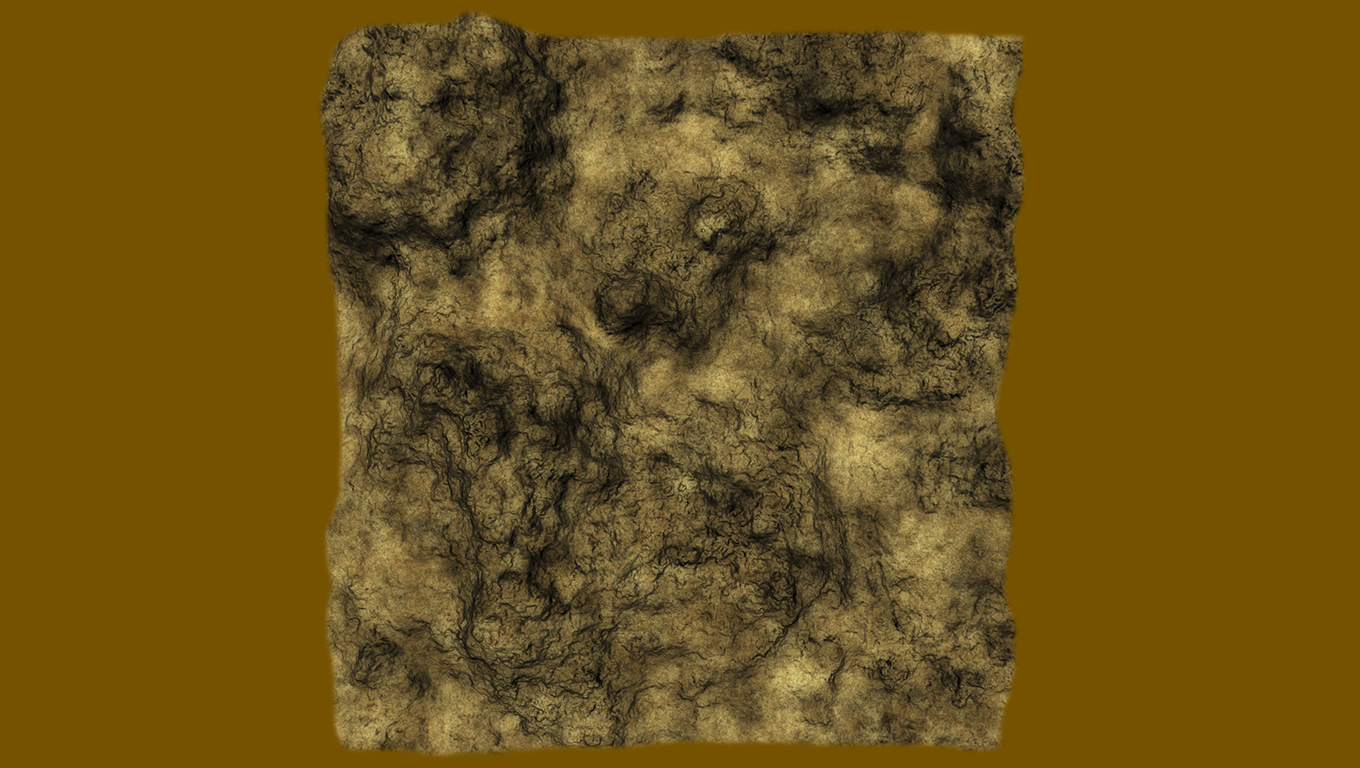
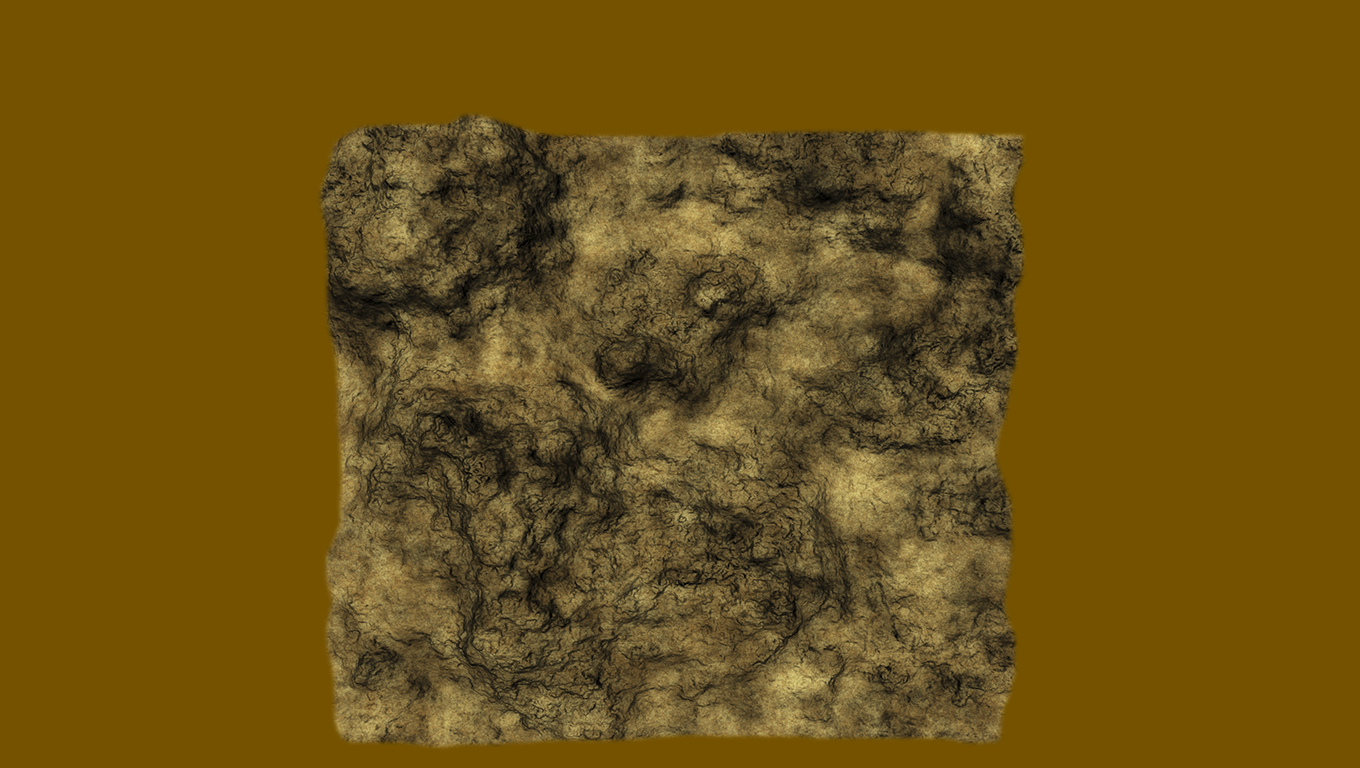
interfaz grafica

Changed region(s): [[0.2162, 0.0, 0.7721, 1.0]]

diff --git a/src/main/resources/Css/estilo.css b/src/main/resources/Css/estilo.css
@@ -1,0 +1,31 @@
+.root{
+	-fx-background-image: url("../Imagenes/fondotablero.png");
+	-fx-background-repeat: stretch;
+	-fx-background-size: 1366 768;
+	-fx-background-position: center center;
+
+}
+
+#head{
+	-fx-spacing:10;
+	-fx-alignment:center;	
+}
+
+#name{
+	-fx-font-size:20px;
+}
+
+#player{
+	
+	-fx-background-color:#DBDBDF;
+	-fx-background-radius:8;
+	-fx-min-width:300px;
+	-fx-position-shape:true;
+}
+#vbox{
+	-fx-background-image: url("../Imagenes/fondoDeSalida.png");
+	-fx-background-repeat: stretch;
+	-fx-background-size: 600 325;
+	-fx-background-position: center center;
+	-fx-effect: dropshadow(three-pass-box, black, 30, 0.5, 0, 0);
+}

diff --git a/src/main/java/Algoritmos3/Aplicacion/Vista/InitialPhaseView.java b/src/main/java/Algoritmos3/Aplicacion/Vista/InitialPhaseView.java
@@ -1,0 +1,144 @@
+package Algoritmos3.Aplicacion.Vista;
+
+import javafx.geometry.Pos;
+import javafx.scene.input.MouseEvent;
+import javafx.event.ActionEvent;
+import javafx.event.EventHandler;
+import javafx.scene.Scene;
+import javafx.scene.control.Button;
+import javafx.scene.control.Label;
+import javafx.scene.control.TextField;
+import javafx.scene.image.Image;
+import javafx.scene.image.ImageView;
+import javafx.scene.layout.HBox;
+import javafx.scene.layout.VBox;
+import javafx.stage.Popup;
+import javafx.stage.Stage;
+
+public class InitialPhaseView {
+	private Stage stage;
+	private PieceView pieceView;
+	private MapView mapView;
+	private PlayerView player1;
+	private PlayerView player2;
+	private PlayerView turn;
+
+	public InitialPhaseView(String jugador1,String jugador2, Stage stage) {
+		this.stage = stage;
+		this.pieceView = new PieceView();
+		this.mapView = new MapView();//tamanio del tablero
+		player1 =  new PlayerView(jugador1);
+		player2 =  new PlayerView(jugador2);
+		initialPhase();
+	}
+
+	public void initialPhase(){//player1 and player2
+		this.stage.setTitle("Phase Initial");
+		VBox vbox = new VBox();
+		HBox hbox = new HBox();
+		vbox.setAlignment(Pos.CENTER);
+		vbox.getChildren().add(head());
+
+		player1.viewPlayer(hbox);
+		hbox.getChildren().add(mapView);
+		player2.viewPlayer(hbox);
+
+		vbox.getChildren().add(hbox);
+		hbox.setAlignment(Pos.CENTER);
+		Scene theScene = new Scene(vbox);
+		theScene.getStylesheets().add("Css/estilo.css");
+		this.stage.setScene(theScene);
+		this.stage.setMaximized(true);
+		this.stage.show();
+		this.stage.setFullScreen(true);
+	}
+
+	public HBox head() {
+		HBox head = new HBox();
+		head.setId("head");
+
+		Image imgSoldado = new Image("Imagenes/soldado.jpg",80,80,false,false);
+		ImageView soldado = new ImageView(imgSoldado);
+		menuPiece(soldado,"soldado",head);
+
+		Image imgJinete = new Image("Imagenes/jinete.png",80,80,false,false);
+		ImageView jinete = new ImageView(imgJinete);
+		menuPiece(jinete,"jinete",head);
+
+		Image imgCatapulta = new Image("Imagenes/catapulta.jpg",80,80,false,false);
+		ImageView catapulta = new ImageView(imgCatapulta);
+		menuPiece(catapulta,"catapulta",head);
+
+		Image imgCurandero = new Image("Imagenes/curandero.jpg",80,80,false,false);
+		ImageView curandero= new ImageView(imgCurandero);
+		menuPiece(curandero,"curandero",head);
+
+		head.getChildren().addAll(soldado,jinete,catapulta,curandero);
+		turnOf(head,player1);
+		return head;
+	}
+
+	public void menuPiece(ImageView piece,String namePiece,HBox head) {
+		piece.addEventHandler(MouseEvent.MOUSE_CLICKED,new EventHandler<MouseEvent>() {
+
+			@Override
+			public void handle(MouseEvent event) {
+				Popup popup = new Popup();
+				//popup.
+				VBox vbox = new VBox();
+
+
+				Label labelx = new Label("Posicion x:");
+				TextField x = new TextField ();
+				HBox hbx = new HBox();
+				hbx.getChildren().addAll(labelx, x);
+				hbx.setSpacing(10);
+
+				Label labely = new Label("Posicion y:");
+				TextField y = new TextField ();
+				HBox hby = new HBox();
+				hby.getChildren().addAll(labely, y);
+				hby.setSpacing(10);
+
+				Button submit = new Button("Posicionar");
+				submit.setStyle("-fx-background-color:#F1C40F;");
+				submit.setOnAction(new EventHandler<ActionEvent>() {
+					@Override
+					public void handle(ActionEvent e) {
+						pieceView.setPieceMap(mapView,namePiece, Integer.parseInt(x.getText()),Integer.parseInt(y.getText()));
+						changeShift(head,namePiece);
+						popup.hide();
+					}
+				});
+
+				vbox.getChildren().addAll(hbx,hby,submit);
+				vbox.setId("vbox");
+
+
+				Scene theScene = new Scene(vbox);
+				popup.getContent().addAll(vbox);
+				popup.show(stage);
+			}
+		});
+	}
+
+	public void changeShift(HBox head,String namePiece) {
+		head.getChildren().remove(4);
+
+		this.turn.setPiece(pieceView.getImageViewMax(namePiece));
+		if(this.turn == player1) {
+			turnOf(head,player2);
+		}
+		else {
+			turnOf(head,player1);
+		}
+
+	}
+
+	public void turnOf(HBox head,PlayerView player){
+		this.turn = player;
+		Button button = new Button("TURNO DE: "+player.getName());
+		button.setStyle("-fx-background-color:#F7CF32");
+		head.getChildren().add(button);
+	}
+}

diff --git a/src/main/java/Algoritmos3/Aplicacion/Vista/MapView.java b/src/main/java/Algoritmos3/Aplicacion/Vista/MapView.java
@@ -1,0 +1,57 @@
+package Algoritmos3.Aplicacion.Vista;
+
+import javafx.scene.layout.GridPane;
+import javafx.scene.layout.Pane;
+import javafx.scene.Group;
+import javafx.scene.Node;
+
+
+public class MapView extends Group {
+
+    public double width;
+    public double heigth;
+    private double tileWidth = 30;
+    private double tileHeigth = 30;
+
+    private GridPane table;
+
+    private Pane[][] panes;
+
+    public MapView(){
+        table = new GridPane();
+        width = tileWidth * 20;//map.getWidth();
+        heigth = tileHeigth * 20;//map.getHeigth();
+        panes = new Pane[ (int)width][(int)heigth];
+
+        for (int i = 0; i < 20; i++) {
+            for (int j = 0; j < 20; j++) {
+                Pane v = new Pane();
+                v.setMinHeight(this.tileHeigth);
+                v.setMinWidth(this.tileWidth);
+                v.setStyle("-fx-border-color: black;-fx-position-shape:true");
+                panes[i][j] = v;
+                table.add(v , i, j);
+            }
+        }
+        /*
+        Background bi = new Background(new BackgroundImage(new Image("https://www.dzoom.org.es/wp-content/uploads/2016/11/Revelar-byn-Ligthroom-1-810x540.jpg"),
+                BackgroundRepeat.NO_REPEAT,
+                BackgroundRepeat.NO_REPEAT,
+                BackgroundPosition.CENTER,
+                new BackgroundSize(this.width, this.heigth, false, false, false, false)));
+        table.setBackground(bi);*/
+        table.setStyle("-fx-padding: 20;");
+        this.addView(table);
+    }
+
+    public void addViewOnMap(Node view, int x, int y) {
+
+        panes[x-1][y-1].getChildren().add(0, view);
+    }
+
+    public void addView(Node view) {
+        this.getChildren().add(view);
+    }
+
+
+}

diff --git a/src/main/java/Algoritmos3/Aplicacion/Vista/PieceView.java b/src/main/java/Algoritmos3/Aplicacion/Vista/PieceView.java
@@ -1,0 +1,59 @@
+package Algoritmos3.Aplicacion.Vista;
+
+
+import java.util.HashMap;
+
+import javafx.scene.image.Image;
+import javafx.scene.image.ImageView;
+
+
+public class PieceView{
+    private double playerScale = 1;
+    //private Tablero tablero;
+    private HashMap<String,String> listaImage;
+
+    private int lastXPosition;
+
+    public PieceView() {
+        listaView();
+    }
+
+    public void setPieceMap(MapView map,String piece,int x, int y) {
+        //guarda en el tablero
+
+        ImageView pieceImage = getImageViewMin(piece);
+        map.addViewOnMap(pieceImage, x, y);
+    }
+
+    public ImageView getImageViewMin(String piece) {
+        ImageView pieceImage = new ImageView(new Image(searchImage(piece)));
+        pieceImage.setScaleX(playerScale);
+        pieceImage.setScaleY(playerScale);
+        pieceImage.setFitHeight(28);
+        pieceImage.setFitWidth(28);
+
+        return pieceImage;
+    }
+
+    public ImageView getImageViewMax(String piece) {
+        ImageView pieceImage = new ImageView(new Image(searchImage(piece),90,100,false,false));
+        return pieceImage;
+    }
+
+    private void listaView() {
+        this.listaImage = new HashMap<String,String>();
+        this.listaImage.put("soldado", "Imagenes/soldado.jpg");
+        this.listaImage.put("jinete", "Imagenes/jinete.png");
+        this.listaImage.put("curandero", "Imagenes/curandero.jpg");
+        this.listaImage.put("catapulta", "Imagenes/catapulta.jpg");
+    }
+
+    public String searchImage(String piece) {
+
+        return this.listaImage.get(piece);
+
+    }
+
+
+
+}

diff --git a/src/main/java/Algoritmos3/Aplicacion/Aplicacion.java b/src/main/java/Algoritmos3/Aplicacion/Aplicacion.java
@@ -1,5 +1,6 @@
 package Algoritmos3.Aplicacion;
 
+import Algoritmos3.Aplicacion.Vista.InitialPhaseView;
 import Algoritmos3.Aplicacion.flujodejuego.AlgoChess;
 import Algoritmos3.Aplicacion.flujodejuego.TableroVista;
 import Algoritmos3.Eventos.*;
@@ -150,17 +151,11 @@ public class Aplicacion extends Application {
     public void iniciarJuego(String nombre1,String nombre2) {
         this.algoChess = new AlgoChess(nombre1,nombre2);
         this.stage.setTitle("AlgoChess");
-        this.refresh();
+        this.refresh(nombre1,nombre2);
     }
 
-    public void refresh() {
-        Scene escena;
-        escena = this.tableroVista.juego();
-        escena.getStylesheets().add("Css/pantallaTablero.css");
-        this.stage.setScene(escena);
-        this.stage.setMaximized(true);
-        this.stage.show();
-        this.stage.setFullScreen(true);
+    public void refresh(String nombre1,String nombre2) {
+        InitialPhaseView initialPhase = new InitialPhaseView(nombre1,nombre2,this.stage);//jugador1 y jugador2
     }
 
 }

diff --git a/src/main/java/Algoritmos3/Aplicacion/Vista/PlayerView.java b/src/main/java/Algoritmos3/Aplicacion/Vista/PlayerView.java
@@ -1,0 +1,39 @@
+package Algoritmos3.Aplicacion.Vista;
+
+import javafx.scene.image.ImageView;
+import javafx.scene.layout.HBox;
+import javafx.scene.layout.VBox;
+import javafx.scene.text.Text;
+
+public class PlayerView {
+	private String namePlayer;
+	private int points;
+	private VBox player;
+
+	public PlayerView(String name) {
+		//crear jugador
+		this.namePlayer = name;
+		this.points = 20;
+		this.player = new VBox();
+		player.setStyle("-fx-spacing:15;-fx-alignment:center");
+	}
+
+	public void viewPlayer(HBox hbox) {
+		this.player.setId("player");
+		Text name = new Text(this.namePlayer);
+		name.setStyle("-fx-font-size:50px");
+
+
+		this.player.getChildren().add(name);
+
+		hbox.getChildren().add(player);
+	}
+
+	public void setPiece(ImageView piece) {
+		this.player.getChildren().add(piece);
+	}
+
+	public String getName() {
+		return this.namePlayer;
+	}
+}

diff --git a/src/main/java/Algoritmos3/Eventos/SalirDelProgramaEventHandler.java b/src/main/java/Algoritmos3/Eventos/SalirDelProgramaEventHandler.java
@@ -11,7 +11,9 @@ import javafx.scene.layout.*;
 import javafx.stage.*;
 
 public class SalirDelProgramaEventHandler implements EventHandler<ActionEvent> {
+
     Stage escenaPrincipal;
+
     public SalirDelProgramaEventHandler(Stage stage) {
        escenaPrincipal= stage;
     }
